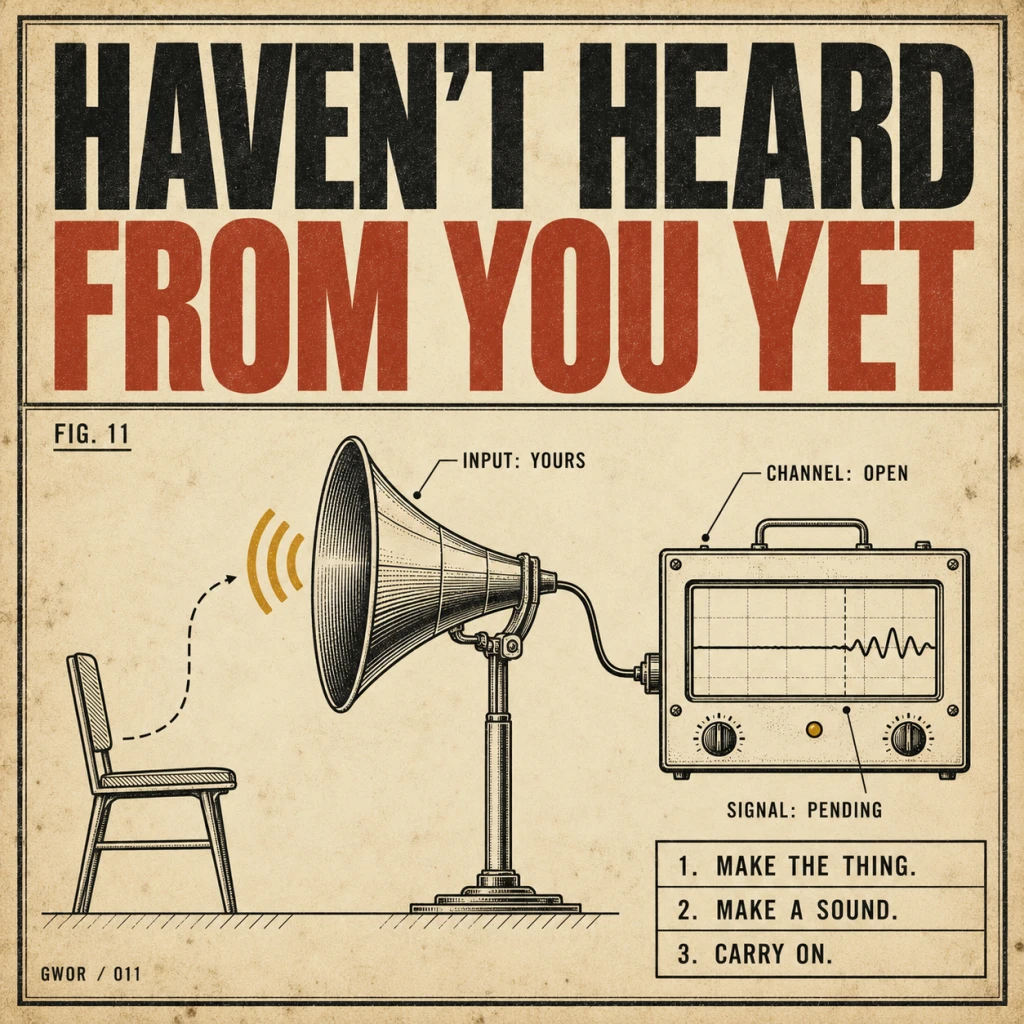
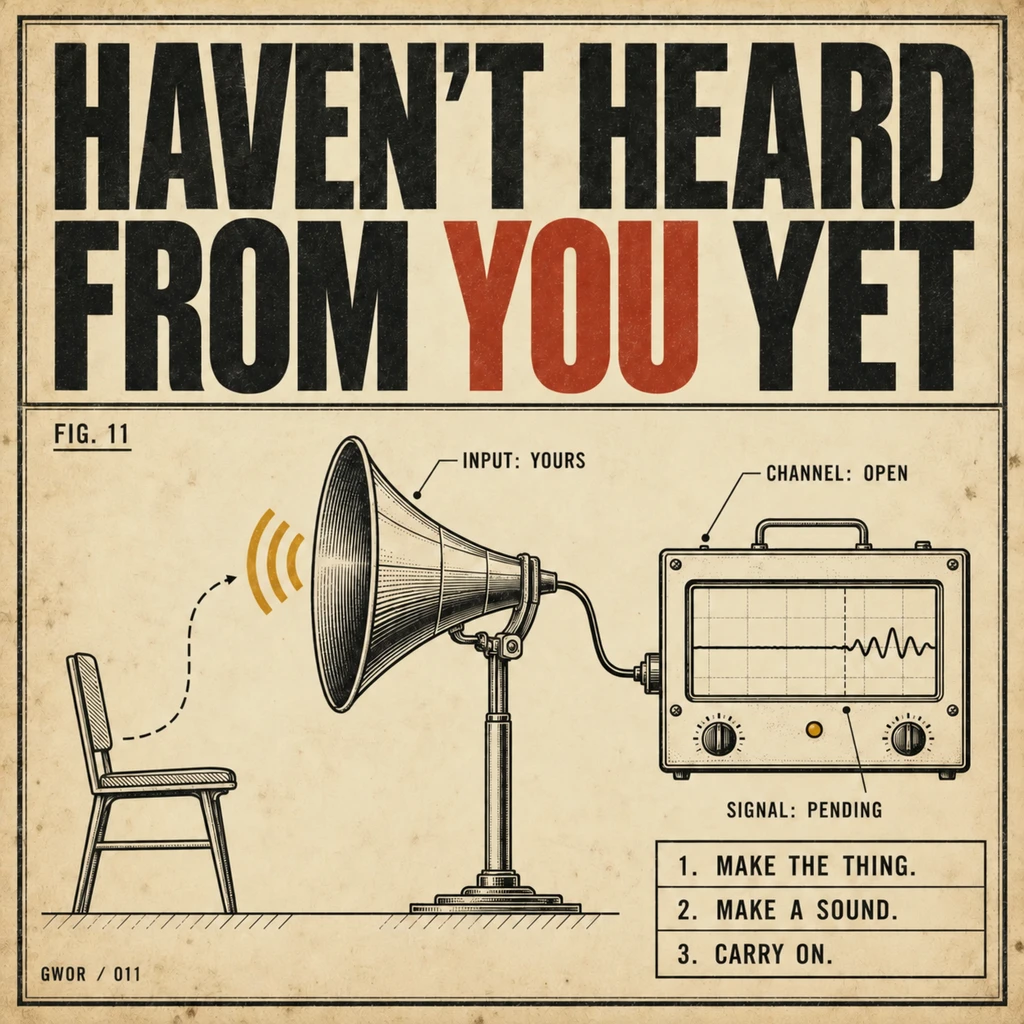
Make only YOU red in song title artwork and refresh cache versions

diff --git a/songs/gwor/havent-heard-from-you-yet/index.html b/songs/gwor/havent-heard-from-you-yet/index.html
@@ -13,7 +13,7 @@
     <meta property="og:url" content="https://charleswilke.com/songs/gwor/havent-heard-from-you-yet/">
     <meta property="og:title" content="Haven't Heard From You Yet | Grief without Ritual">
     <meta property="og:description" content="A crooked vaudeville hymn for an uncertain future: no promises of a safe landing, just an invitation to make something the world hasn't heard yet.">
-    <meta property="og:image" content="https://charleswilke.com/audio/grief-without-ritual/havent-heard-from-you-yet-title.webp">
+    <meta property="og:image" content="https://charleswilke.com/audio/grief-without-ritual/havent-heard-from-you-yet-title.webp?v=20261011-red-you">
     <meta property="og:image:width" content="1024">
     <meta property="og:image:height" content="1024">
     <meta property="og:image:alt" content="Haven't Heard From You Yet title art">
@@ -22,7 +22,7 @@
     <meta name="twitter:url" content="https://charleswilke.com/songs/gwor/havent-heard-from-you-yet/">
     <meta name="twitter:title" content="Haven't Heard From You Yet | Grief without Ritual">
     <meta name="twitter:description" content="A crooked vaudeville hymn for an uncertain future: no promises of a safe landing, just an invitation to make something the world hasn't heard yet.">
-    <meta name="twitter:image" content="https://charleswilke.com/audio/grief-without-ritual/havent-heard-from-you-yet-title.webp">
+    <meta name="twitter:image" content="https://charleswilke.com/audio/grief-without-ritual/havent-heard-from-you-yet-title.webp?v=20261011-red-you">
     <meta name="twitter:image:alt" content="Haven't Heard From You Yet title art">
 
     <link rel="icon" type="image/x-icon" href="/favicon.ico?v=202607032147">
@@ -41,7 +41,7 @@
     "name": "Grief without Ritual"
   },
   "url": "https://charleswilke.com/songs/gwor/havent-heard-from-you-yet/",
-  "image": "https://charleswilke.com/audio/grief-without-ritual/havent-heard-from-you-yet-title.webp"
+  "image": "https://charleswilke.com/audio/grief-without-ritual/havent-heard-from-you-yet-title.webp?v=20261011-red-you"
 }
     </script>
 

diff --git a/main.js b/main.js
@@ -6075,7 +6075,7 @@ function initGWORLightbox() {
         { title: 'Dearly Beloved', file: '/audio/grief-without-ritual/dearly-beloved.mp3', cover: '/audio/grief-without-ritual/dearly-beloved-title.webp', article: 'https://charleswilke.substack.com/p/dearly-beloved' },
         { title: 'As We Speak It', file: '/audio/grief-without-ritual/as-we-speak-it.mp3', cover: '/audio/grief-without-ritual/as-we-speak-it-title.webp', article: 'https://charleswilke.substack.com/p/are-we-ready-for-the-mirror' },
         { title: 'When Doctrine Slips', file: '/audio/grief-without-ritual/when-doctrine-slips.mp3?v=51f2bc3414a3', cover: '/audio/grief-without-ritual/when-doctrine-slips-title.webp', article: 'https://charleswilke.substack.com/p/when-doctrine-slips' },
-        { title: "Haven't Heard From You Yet", file: '/audio/grief-without-ritual/havent-heard-from-you-yet.mp3', cover: '/audio/grief-without-ritual/havent-heard-from-you-yet-title.webp', article: 'https://charleswilke.com/read/what-hope-do-we-have' }
+        { title: "Haven't Heard From You Yet", file: '/audio/grief-without-ritual/havent-heard-from-you-yet.mp3', cover: '/audio/grief-without-ritual/havent-heard-from-you-yet-title.webp?v=20261011-red-you', article: 'https://charleswilke.com/read/what-hope-do-we-have' }
     ];
 
     const lightbox = document.getElementById('gworLightbox');

diff --git a/index.html b/index.html
@@ -1094,6 +1094,6 @@
     <p id="aboutFootnoteDescription">I design how the AI interprets requests and coordinates its response, translating product intent into instructions that guide its behavior. This includes IQ’s voice and tone, and how and when it chooses tools to use.</p>
 </div>
 <script src="/vendor/dompurify.min.js?v=3.4.15" defer></script>
-<script src="/main.js?v=20261011-from-the-beginning" defer></script>
+<script src="/main.js?v=20261011-red-you" defer></script>
 </body>
 </html>
